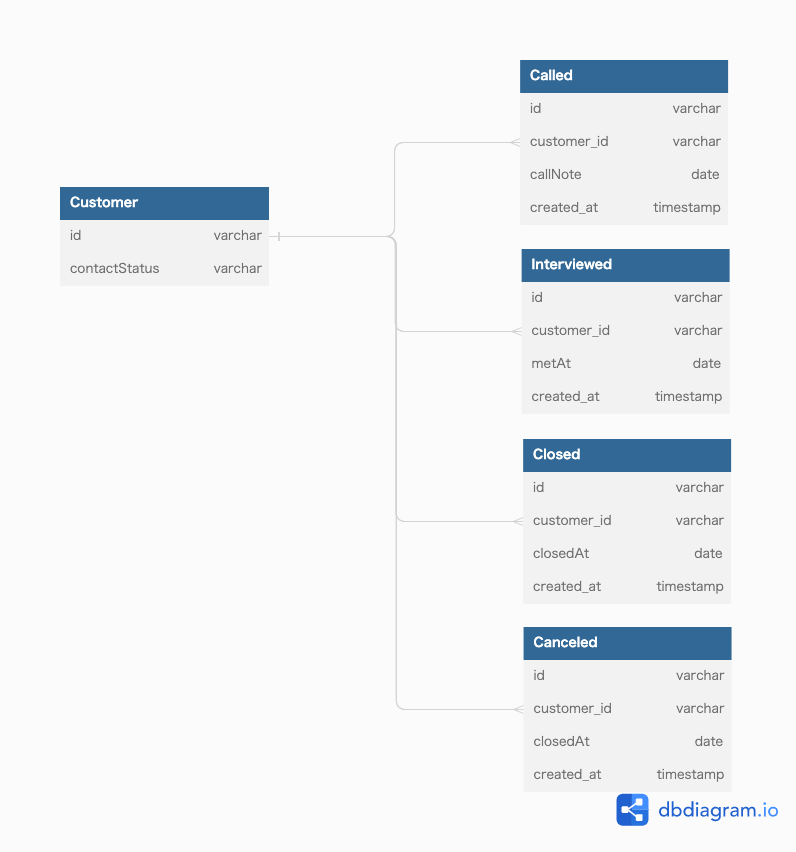
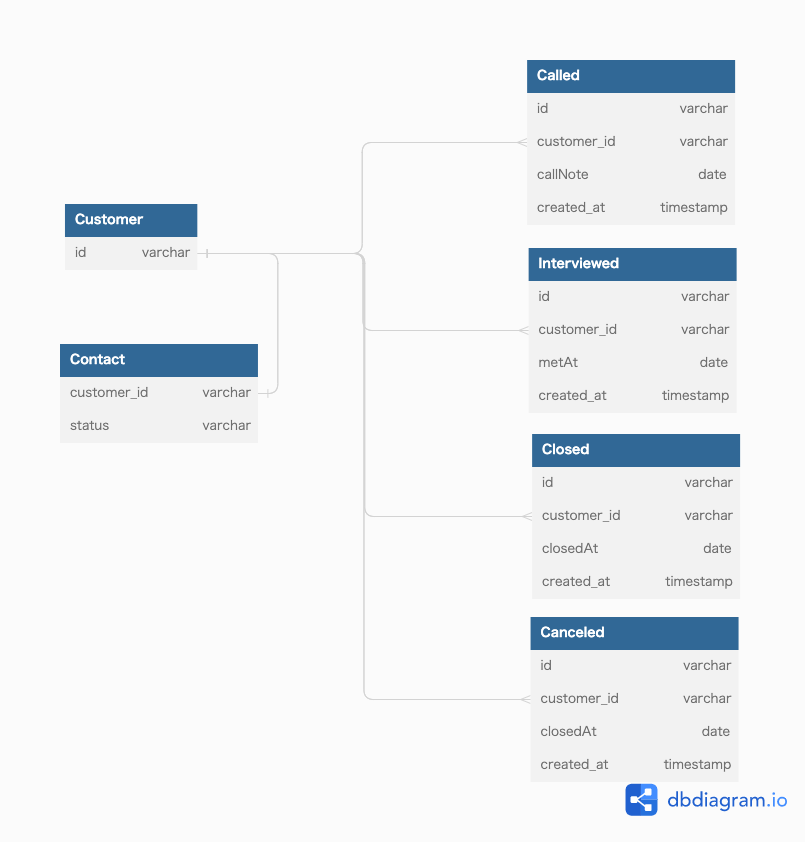
DBアンチパターン5 修正

diff --git a/DB/anti-pattern-5/work/ER.md b/DB/anti-pattern-5/work/ER.md
@@ -1,7 +1,11 @@
 ```
-TABLE Customer as nc {
+TABLE Customer {
   id varchar
-  contactStatus varchar
+}
+
+TABLE Contact {
+  customer_id varchar
+  status varchar
 }
 
 TABLE Called {
@@ -32,6 +36,7 @@ TABLE Canceled {
   created_at timestamp
 }
 
+Ref: Contact.customer_id - Customer.id
 Ref: Called.customer_id > Customer.id
 Ref: Interviewed.customer_id > Customer.id
 Ref: Closed.customer_id > Customer.id
